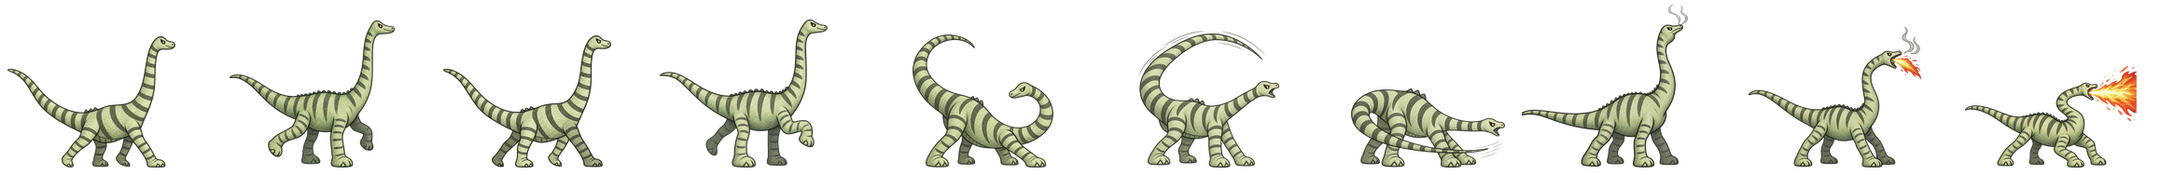
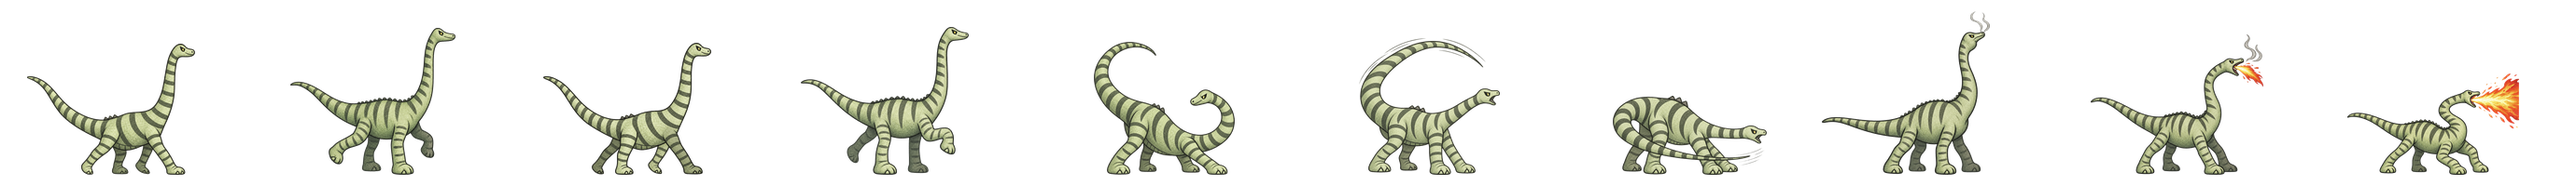
dino: poprawka z review Codexa — koniec przycinania klatek stego i diplo
Codex potwierdził i doprecyzował zgłoszone przez sub-agenta przycięcia:
w arkuszu stegozaura klatka ataku jest ucięta u góry, a dwie klatki ognia
po obu bokach; u diplodoka ucięty jest ogon w jednej klatce. Zmierzone
niezależnie: stego #5 góra, #7/#8/#9 boki; diplo #7 lewa.

Nie trzeba było regenerować grafiki — pozy źródłowe są w assets-src w pełnej
rozdzielczości, a od czasu ujednolicenia renderera każdy gatunek ma własny
rozmiar klatki. Arkusze przebudowane narzędziem z większą klatką i tą samą
skalą ciała: stego 312×208, diplo 276×200 (tyranno bez zmian, 233×188).
Wysokości ciała nietknięte (119 i 150 px), więc proporcje na ekranie zostają.

Diplodok najpierw wyszedł czysto z wyrównaniem po obrysie, ale przy długim
ogonie obrys wędruje między klatkami, co przesuwałoby zwierzę na boki w
trakcie chodu. Zostało wyrównanie po środku masy plus szersza klatka.
Zmierzony rozrzut środka nóg w paśmie chodu: stego 2,9 px, diplo 2,3 px.

Zweryfikowane: żadna z 30 klatek nie dotyka krawędzi swojej klatki.

Claude-Session: https://claude.ai/code/session_012DKLRJUD9h7JTMjRqBJKxK

diff --git a/dino-vs-kosmici/js/render/sprites.js b/dino-vs-kosmici/js/render/sprites.js
@@ -29,8 +29,9 @@ export const FLYER_ANIM = { frames: 6,  frameW: 250, frameH: 350, fps: 7 };
 // 4-5 collapsing, 6-7 burning ruins. Living bases show 0/1/2 by HP; on
 // death we play 3→7 and hold on the ruins.
 export const BASE_DESTRUCT = { frames: 8, frameW: 150, frameH: 150, deathFps: 6 };
-// All three dinosaurs now share one sheet layout: 10 frames of 233x188,
-// walk(4) + attack(3) + breath(3). `bodyH` is the measured height of the
+// All three dinosaurs share one band layout — walk(4) + attack(3) + breath(3)
+// — but each keeps its own frame size, because a long stegosaurus tail and a
+// diplodocus breathing fire need more room than a tyrannosaurus. `bodyH` is the measured height of the
 // animal inside the frame and `drawH` the height it should occupy on screen;
 // sizing from those keeps a low, long stegosaurus and a tall tyrannosaurus in
 // proportion instead of squeezing both into the same box.
@@ -40,8 +41,8 @@ const DINO_BANDS = {
   breath: { start: 7, count: 3 }
 };
 export const TYRANNO_ANIM = { frameW: 233, frameH: 188, bodyH: 173, drawH: 88, ...DINO_BANDS };
-export const STEGO_ANIM   = { frameW: 233, frameH: 188, bodyH: 119, drawH: 66, ...DINO_BANDS };
-export const DIPLO_ANIM   = { frameW: 233, frameH: 188, bodyH: 150, drawH: 92, ...DINO_BANDS };
+export const STEGO_ANIM   = { frameW: 312, frameH: 208, bodyH: 119, drawH: 66, ...DINO_BANDS };
+export const DIPLO_ANIM   = { frameW: 276, frameH: 200, bodyH: 150, drawH: 92, ...DINO_BANDS };
 // Big alien: 5 walk/idle poses (front-facing warrior with mace + wrench).
 export const BIGALIEN_ANIM = { frames: 5, frameW: 327, frameH: 473, fps: 5 };
 // Walker = small flying rocket. 6 frames (varying engine fire / propeller).
